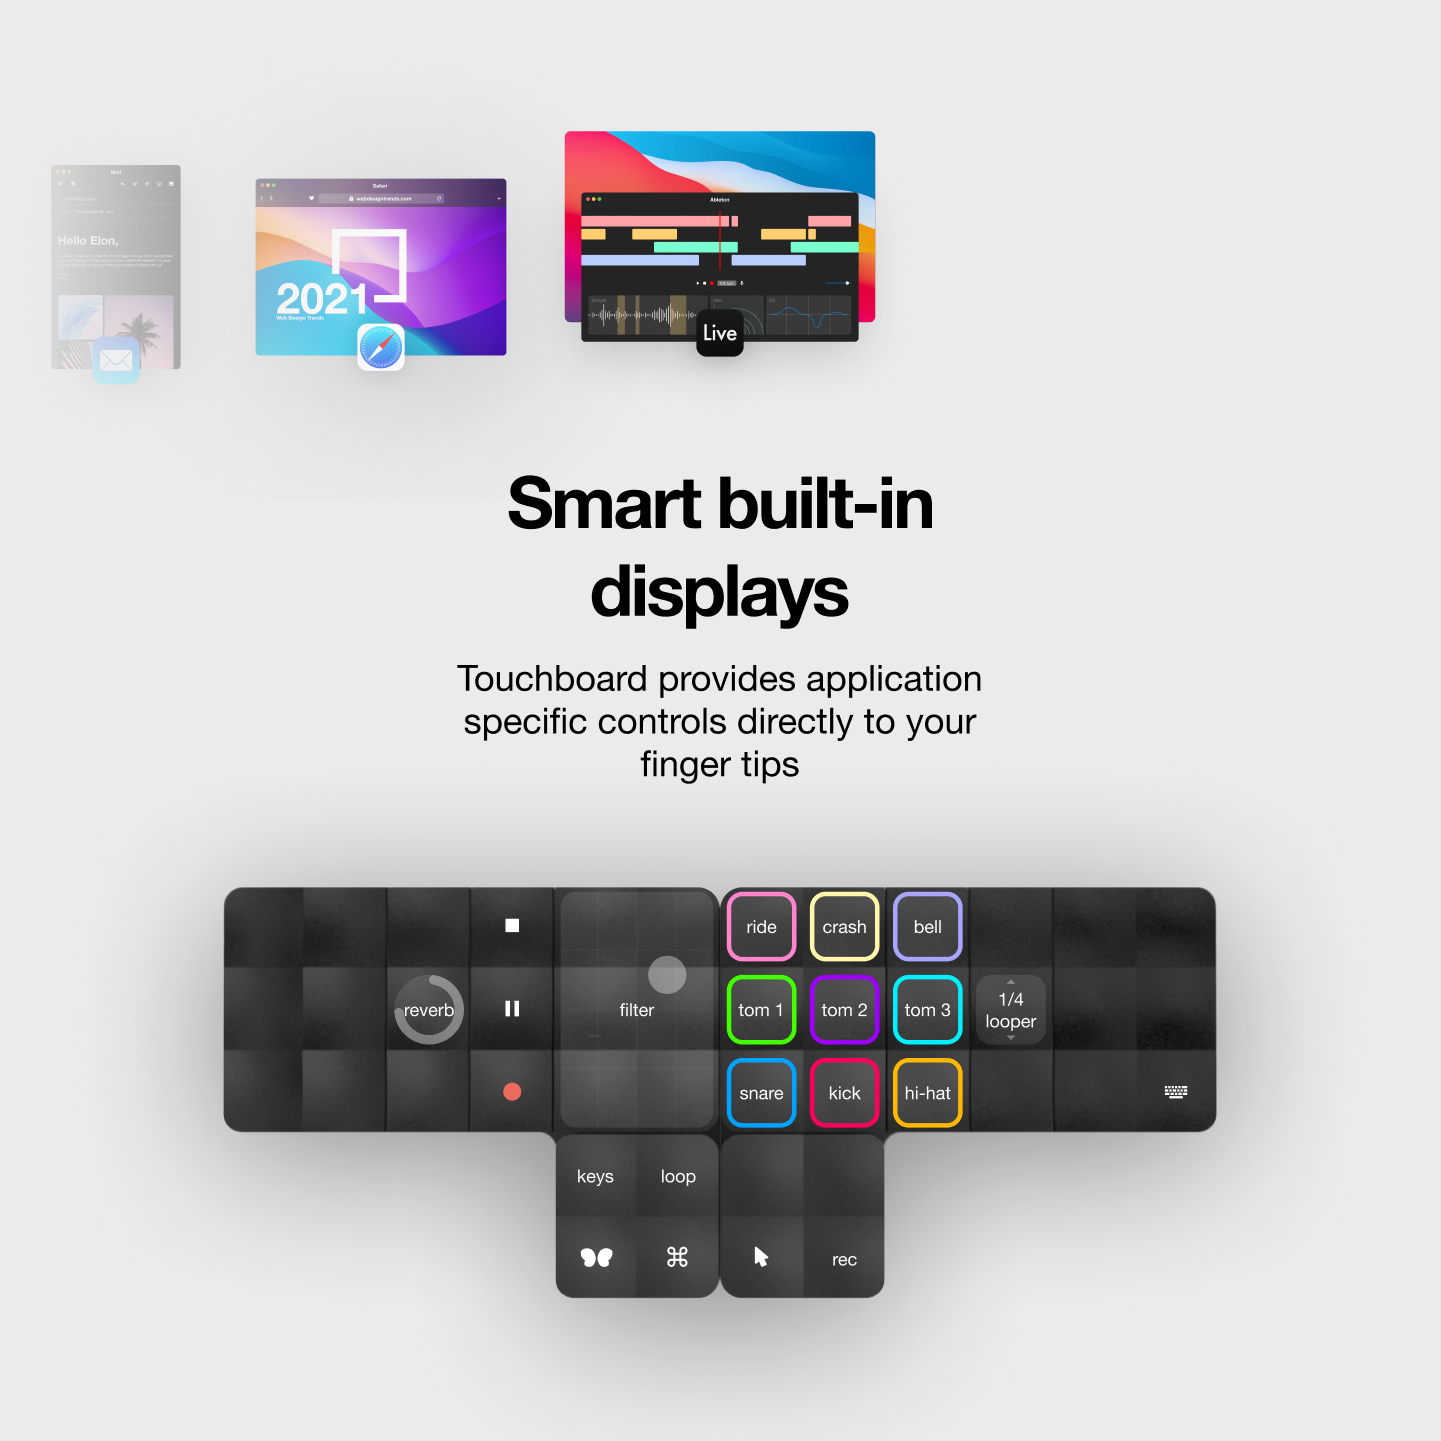
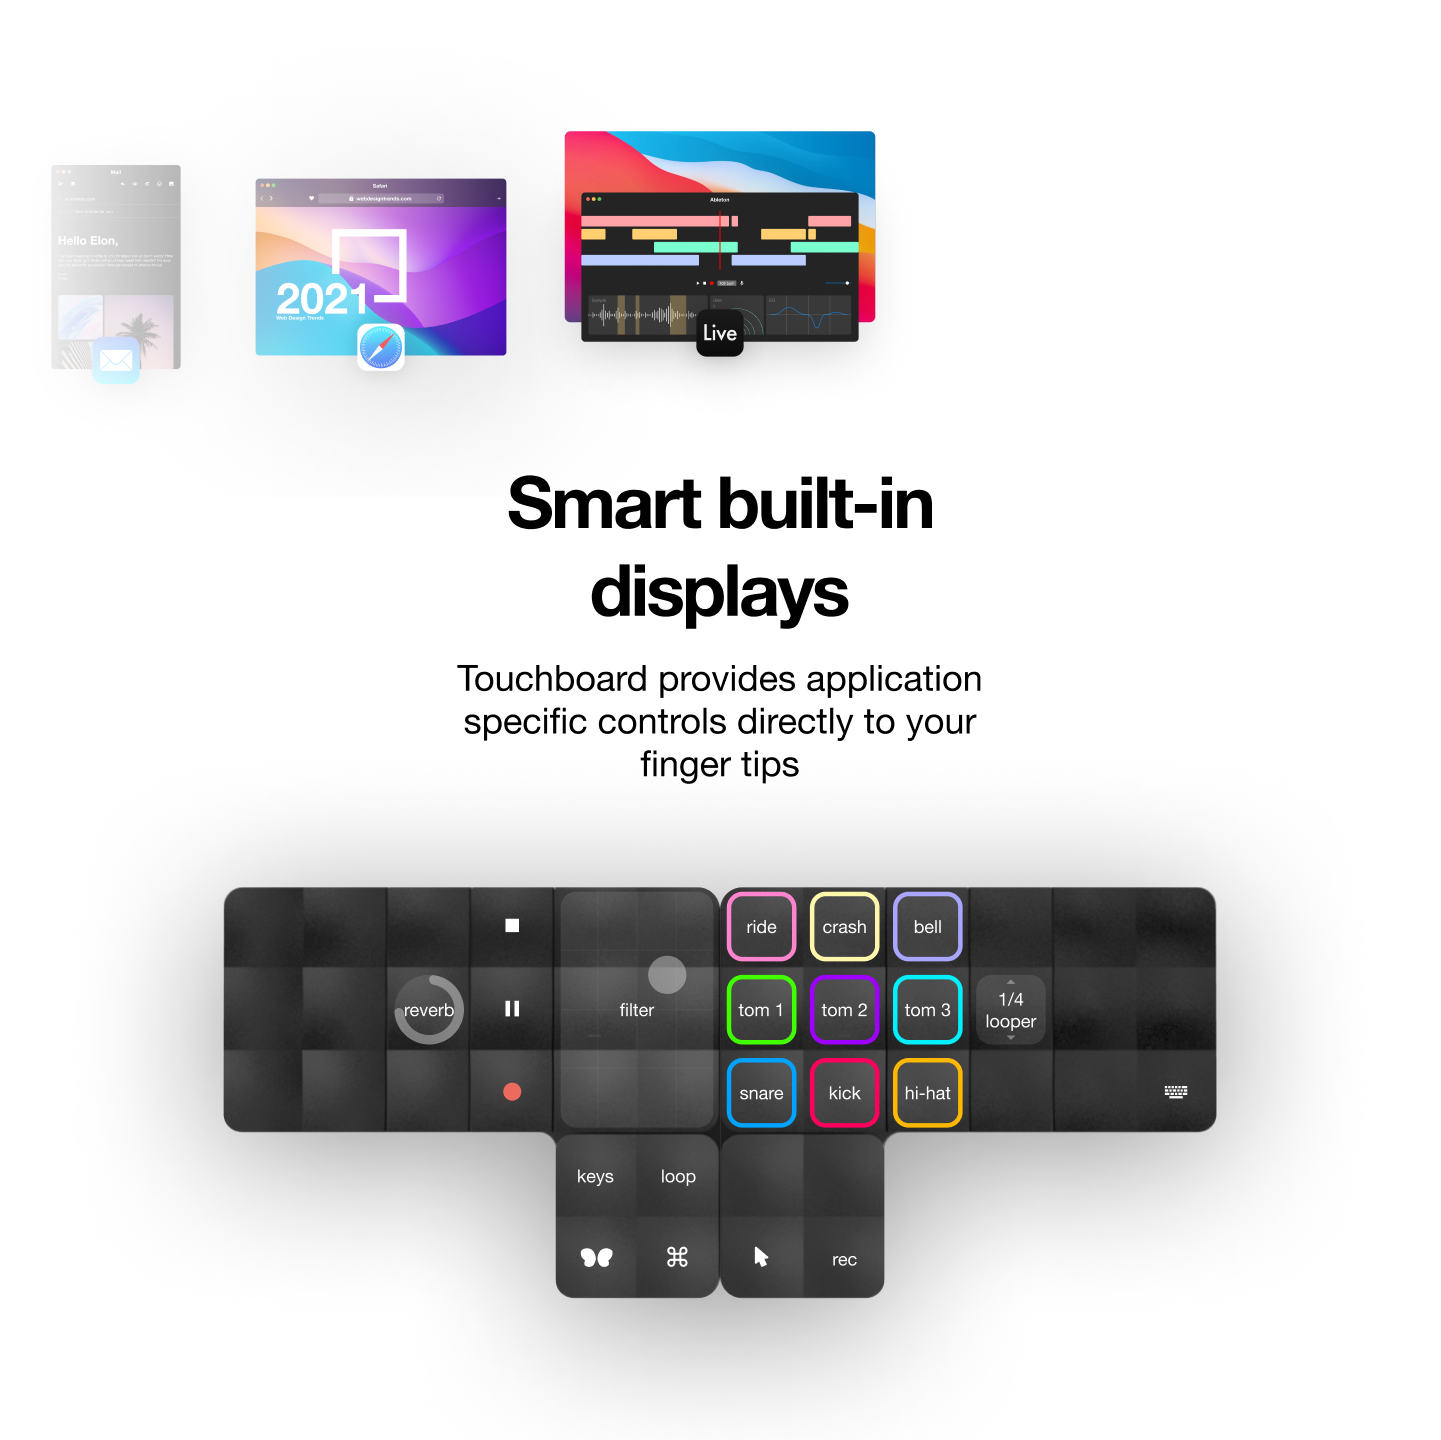
animation fix

diff --git a/modules/product/index.js b/modules/product/index.js
@@ -10,8 +10,9 @@ Main.add_module({
 		.product .box {
 			position: relative;
 			height: 90vh;
-			background-color: #EBEBEB;
+			background-color: white;
 			border-radius: var(--space-10);
+			filter: contrast(.9);
 		}
 
 		.product .frame {
@@ -21,7 +22,14 @@ Main.add_module({
 			width: 90vh;
 			height: 90vh;
 			background-size: cover;
-			transition: .2s;
+			transition: .5s linear;
+			visibility: hidden;
+			opacity: 0;
+		}
+
+		.product .frame.show {
+			visibility: visible;
+			opacity: 1;
 		}
 
 		.product .nav {
@@ -33,6 +41,7 @@ Main.add_module({
 			background-repeat: no-repeat;
 			background-position: center;
 			cursor: pointer;
+			transform: translateY(-50%);
 		}
 
 		.product .nav.hide {
@@ -40,12 +49,10 @@ Main.add_module({
 		}
 
 		.product .nav.l {
-			margin-left: calc(-1 * var(--offset));
 			background-image: url('./modules/product/graphic/l.png');
 
 		}
 		.product .nav.r {
-			margin-left: var(--offset);
 			background-image: url('./modules/product/graphic/r.png');
 		}
 
@@ -77,7 +84,6 @@ Main.add_module({
 			.product .box {
 				overflow: hidden;
 			}
-			.product .nav {transform: translateY(-50%);}
 			.product .nav.l {left: -30px;}
 			.product .nav.r {right: -30px;}
 		}
@@ -88,11 +94,8 @@ Main.add_module({
 				padding: 0 var(--space-20);
 				margin-bottom: var(--space-20);
 			}
-			.product .nav {
-				--offset : 50vh;
-				left: 50%;
-				transform: translate(-50%, -50%);
-			}
+			.product .nav.l {left: 5vw;}
+			.product .nav.r {right: 5vw;}
 		}
 
 	`,
@@ -121,8 +124,6 @@ Main.add_module({
 							.join(' ')}
 					</div>
 				`
-		for (let i = 0; i < length; i++)
-			helpers.image_preloader(`${img} ${i}.jpg`)
 
 		if (app == 'context') {
 			const open = c =>
@@ -135,6 +136,14 @@ Main.add_module({
 			}
 		}
 
+		let imgs = ''
+		for (let i = 0; i < length; i++)
+			imgs += `<div
+				class="frame ${i == 0 ? 'show' : ''}"
+				data-i="${i}"
+				style="background-image: url('${img} ${i}.jpg')"
+			></div>`
+
 		return `
 			<div
 				class="product product_${app}"
@@ -143,10 +152,7 @@ Main.add_module({
 				data-app="${app}"
 			>
 				<div class="box">
-					<div
-						class="frame"
-						style="background-image: url('${img} 0.jpg')"
-					></div>
+					${imgs}
 					${pagination}
 				</div>
 			</div>
@@ -172,10 +178,10 @@ Main.add_module({
 				p.classList[i == n ? 'add' : 'remove']('current')
 			)
 
-		const img = `./modules/product/apps/${app} ${n}`
-		product.querySelector(
-			'.frame'
-		).style.backgroundImage = `url('${img}.jpg')`
+		product.querySelectorAll('.frame').forEach(frame => {
+			const current = frame.getAttribute('data-i') == n
+			frame.classList[current ? 'add' : 'remove']('show')
+		})
 		product.setAttribute('data-current', n)
 	},
 
